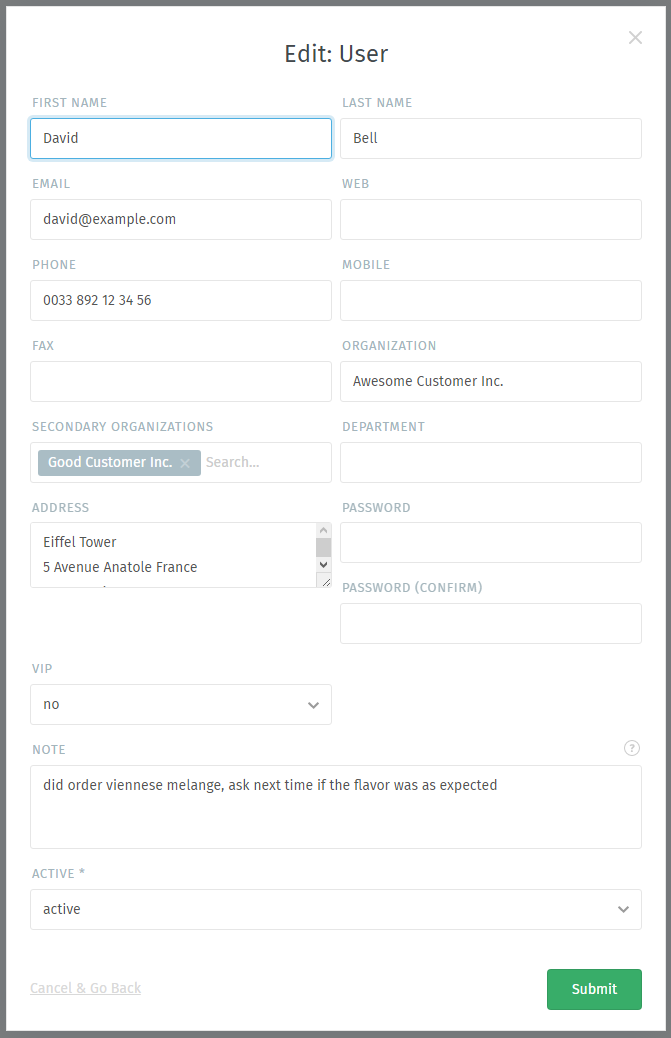
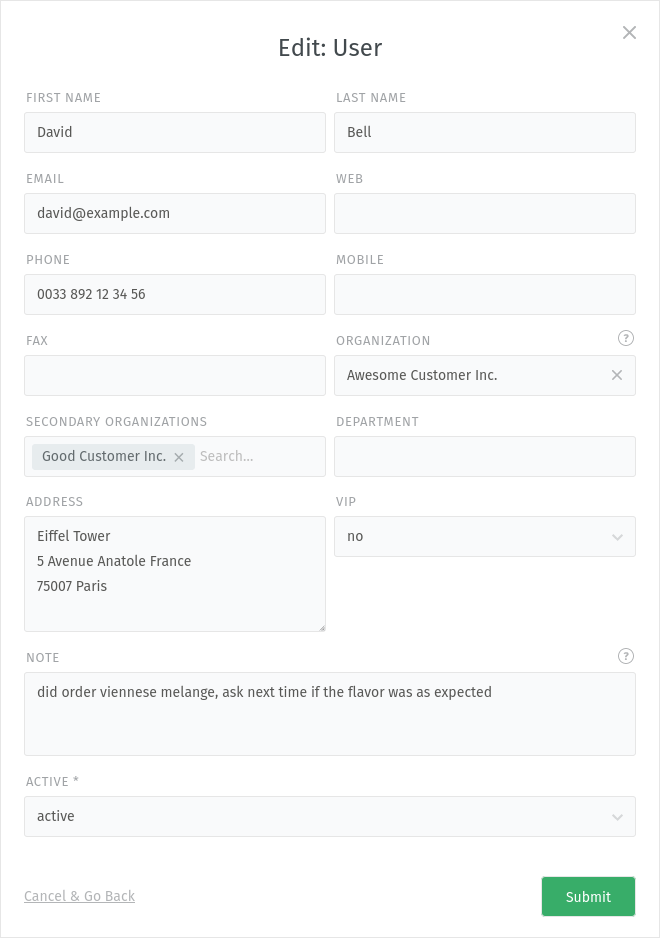
Maintenance: Replaced screenshots and small changes

diff --git a/extras/customers.rst b/extras/customers.rst
@@ -7,7 +7,7 @@ Use the **ticket pane** to manage customer profiles.
    :alt: Ticket pane (customer view)
    :align: center
 
-   Click the 👨 tab in the ticket pane to see the customer’s profile.
+   Click the 👨 tab in the ticket pane to see the customer's profile.
 
 .. tip:: **🖱 UI Protip**
 
@@ -16,23 +16,25 @@ Use the **ticket pane** to manage customer profiles.
       :align: center
       :scale: 50%
 
-      Hover over the **open/closed** labels to see a summary of the customer’s other tickets.
+      Hover over the **open/closed** labels to see a summary of the customer's other tickets.
 
 Editing a Customer
 ------------------
 
-To edit the customer’s profile, use the **customer submenu**:
+To edit the customer's profile, use the **customer submenu** and select "Edit
+Customer":
 
-.. figure:: /images/extras/customers-submenu.jpg
+.. figure:: /images/extras/customers-submenu.png
    :alt: Customer submenu
    :align: center
+   :scale: 100%
 
    Click the **Customer ▾** heading to access additional actions.
 
 .. figure:: /images/extras/customers-edit-dialog.png
    :alt: Edit customer dialog
    :align: center
-   :scale: 50%
+   :scale: 90%
 
    The edit customer dialog.
 
@@ -52,9 +54,9 @@ but here are a couple that might confuse you:
 :VIP:
 
    Like :doc:`ticket priority </basics/service-ticket/settings/priority>`,
-   **VIP status** doesn’t actually do anything out-of-the-box,
+   **VIP status** doesn't actually do anything out-of-the-box,
    but an admin *can* set up automated system hooks based on this value,
    or use it as a filter for :doc:`custom overviews </basics/find-ticket/browse>`.
 
-   **Ask your administrator** about how she’d like you to use this attribute
+   **Ask your administrator** about how she'd like you to use this attribute
    (or just leave it alone).
